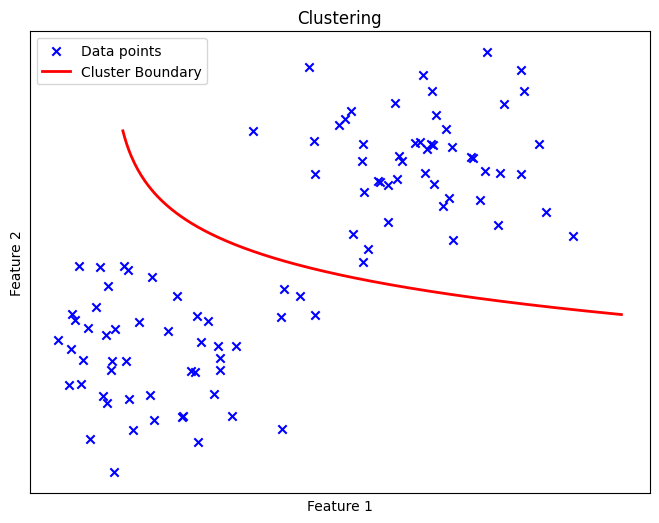
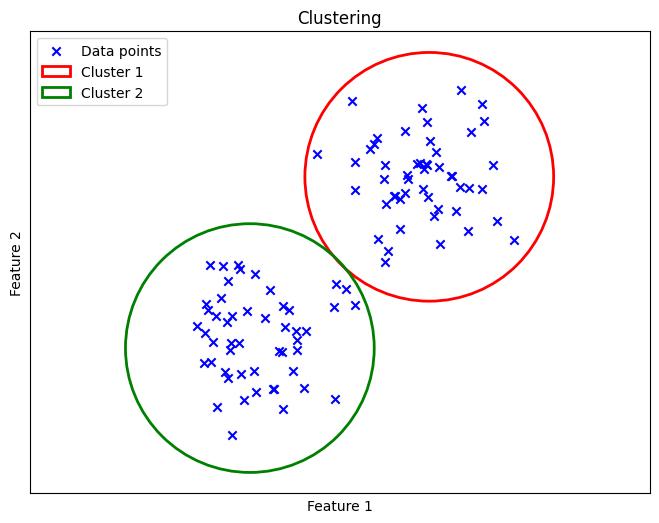
Quartz sync: Jun 7, 2025, 7:17 PM

diff --git a/content/Specialization/(Legacy)MachineLearning/6. Clustering.md b/content/Specialization/(Legacy)MachineLearning/6. Clustering.md
@@ -17,7 +17,7 @@ K-means algorithm is a type of clustering technique. It groups data points based
 K-means algorithm divide datasets into K clusters as follow:
 
 1. Choose $K$.
-2. Randomly plot $K$ centroids.
+2. Randomly choose $K$ samples and assign as centroids.
 	- Denote $K$ centroids as $\mu_1,\ \mu_2,\cdots,\ \mu_K$.
 3. Assign the nearest centroid to each data points.
 	- To measure the distance, we use L2 norm (euclidean distance).
@@ -50,6 +50,26 @@ J(c^{(1)},\ c^{(2)},\cdots,\ c^{(m)},\ \mu_1,\ \mu_2,\cdots,\ \mu_k)=\sum^m_{i=1
 $$
 ## 6. 3 Local Minima
 ---
-This cost function also 
+This cost function also the local minima problem. It can converge to a various clustering results that may not match the ideal clusters we expected. To prevent this, do multiple times of random initiating and choose the result that gave the lowest $J$.
+
 ## 6. 4 Choosing K
 ---
+The best way to determine the number of clusters is to set based on the intention of the problem. If we categorize health scores into three level—Good, Caution, and Danger—then clustering the data into three clusters would be the most appropriate choice. But in most cases, it's ambiguous to choose the number of clusters just by looking at the data.
+
+### 6. 4. 1 Elbow Method
+---
+![figure6-2][ML6-2.png]
+
+Above figure represent the cost $J$ versus the number of clusters $K$. As $K$ increases, $J$ decreases so the figure looks like the elbow. A very large $K$ divides the data too finely, which makes generalization difficult and can lead to missing meaningful cluster structures. Therefore, the elbow point—where the sum of squared errors $J$ sharply decreases and then begins to level off—is considered the ideal value for $K$.
+
+In the example, choosing $K$ as 3 or 4 seems reasonable. However, estimating $K$ this way still feels somewhat ambiguous.
+
+## 6. 5 Limit of K-Means
+---
+- Since K-Means is sensitive to the initial values, it often requires multiple runs to obtain ideal results.
+
+- Since K-Means is a distance-based algorithm, normalization is essential to ensure that features with larger scales do not dominate the clustering.
+
+- In addition, when the number of features is high, data points tend to become more distant from each other, which often makes dimensionality reduction necessary.
+
+- Since K-Means is based on distance, it assumes that each cluster is spherical, making it unsuitable for unbalanced distributions, complex structures, or datasets with outliers.